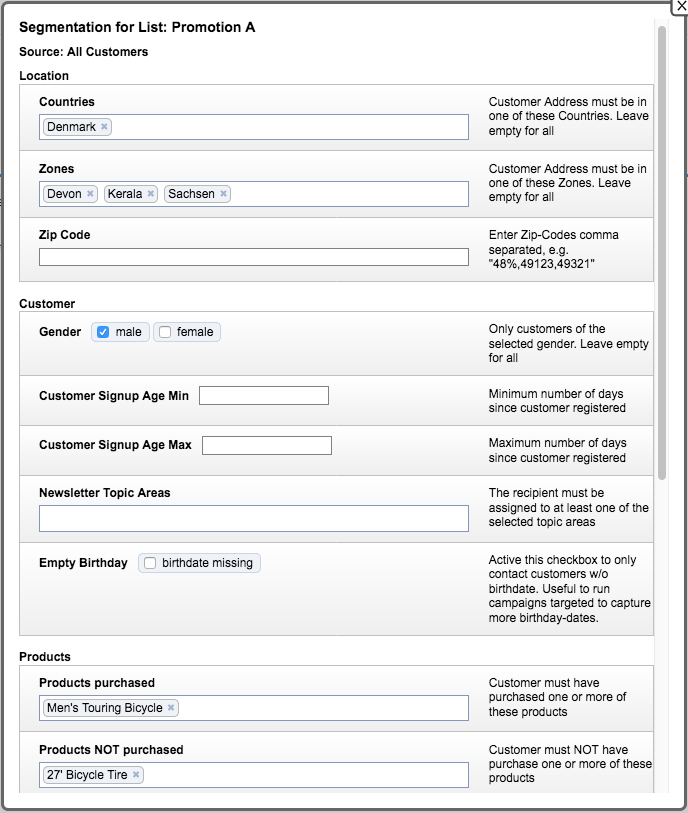
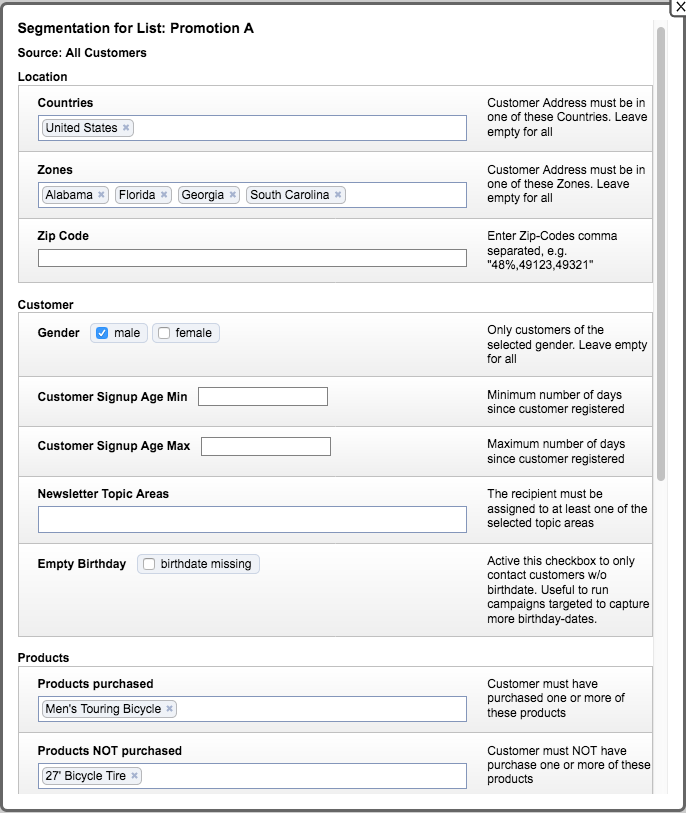
Tutorial - Segmentation (update)
Changed segmentation.4.pg and related text to reflect location USA, and regions Alabama, Florida, Georgia, and South Carolina.

Changed region(s): [[0.0, 0.0, 1.0, 1.0]]

diff --git a/pages/03.documentation/10.tutorials/01.pro-module-segmentation/default.en.md b/pages/03.documentation/10.tutorials/01.pro-module-segmentation/default.en.md
@@ -45,7 +45,7 @@ Let’s walkthrough an example to better understand how we would accomplish a ta
 
 ##### Promotion A - Bicycle Tire Campaign
 
-We want to send an awesome newsletter with a “sweet deal” for our awesome customers. Our Newsletter is gonna accomplish two things: We’ll be reminding customers who bought a men’s bicycle, that now might be a good time to replace the tires on it. At the same time, we’re gonna promote a sweet deal on a new set of bicycle tires for those customers who bought the bicycle within a a specific time frame. We’ll target customers in Denmark, in the capital region specifically, which we know uses their bicycles year around in their daily commute to and from work.  So their tires should be well worn by now. 
+We want to send an awesome newsletter with a “sweet deal” for our awesome customers. Our Newsletter is gonna accomplish two things: We’ll be reminding customers who bought a men’s bicycle, that now might be a good time to replace the tires on it. At the same time, we’re gonna promote a sweet deal on a new set of bicycle tires for those customers who bought the bicycle within a a specific time frame. We’ll target customers in the U.S.A., in the southern region specifically, which we know uses their bicycles year around in their daily commute to and from work.  So their tires should be well worn by now. 
 
 ### Step 1 - Create a dynamic list of recipients
 First, we need to create a list of customers. A list tells us which customers will receive this email. A List in Mailbeez is also the place where you’ll do your segmentation... in other words, which customer characteristics you'll target for this specific messaging.
@@ -97,11 +97,11 @@ A new window opens listing the customers matching the segmentation criteria. Cli
 
 ##### What did we do? 
 
-In the `Location` section, we targeted customers in <span style="color:#303030; font-family: 'courier';">Denmark</span> only. We further limited customers in Denmark to the regions <span style="color:#303030; font-family: 'courier';">Devon, Karela,</span> and <span style="color:#303030; font-family: 'courier';">Sachsen</span>. 
+In the `Location` section, we targeted customers in <span style="color:#303030; font-family: 'courier';">United States</span> only. We further limited customers in the U.S. to the regions <span style="color:#303030; font-family: 'courier';">Alabama, Florida, Georgia,</span> and <span style="color:#303030; font-family: 'courier';">South Carolina</span>. 
 
 Because we know that the product is a <span style="color:#303030; font-family: 'courier';">Men’s Touring Bicycle</span>, in the `Customer section`, we will only send to <span style="color:#303030; font-family: 'courier';">male</span> customers. Sure, we could also just send to all customers that has purchased the Men’s bicycle, but I want to show that you do have the option to segment based on `Gender` as well. 
 
-In section `Products`, we decide which products are relevant for this customer group. The product is <span style="color:#303030; font-family: 'courier';">Men’s Touring Bicycle</span>. However, we don’t want customers that have recently purchased <span style="color:#303030; font-family: 'courier';">27’ bicycle tires</span> because they may have purchased these to use as replacements already. Besides, this is the product we’ll offer with our “sweet deal”. So we excluded this product in `Products NOT purchased`.
+In section `Products`, we decide which products are relevant for this customer group. Again, we want to target customers that purchased the <span style="color:#303030; font-family: 'courier';">Men’s Touring Bicycle</span>. However, we don’t want customers that have recently purchased <span style="color:#303030; font-family: 'courier';">27’ bicycle tires</span> because they may have purchased these to use as replacements already. Besides, this is the product we’ll offer with our “sweet deal”. So we excluded this product in `Products NOT purchased`.
 
 Next, we want our “sweet deal” to go to past customers that have had enough time to use their bicycle and wear the tires a bit. As such, they’re more likely to be ready to replace the original tires. So in the `Orders` section we set the date in `Last Order between` field to <span style="color:#303030; font-family: 'courier';">01-01-2015</span>, to target customers that have purchased a bicycle on or after this date. We then limit it to bicycles purchased before <span style="color:#303030; font-family: 'courier';">01-01-2016</span> which we input into `...and this date` field.
 
